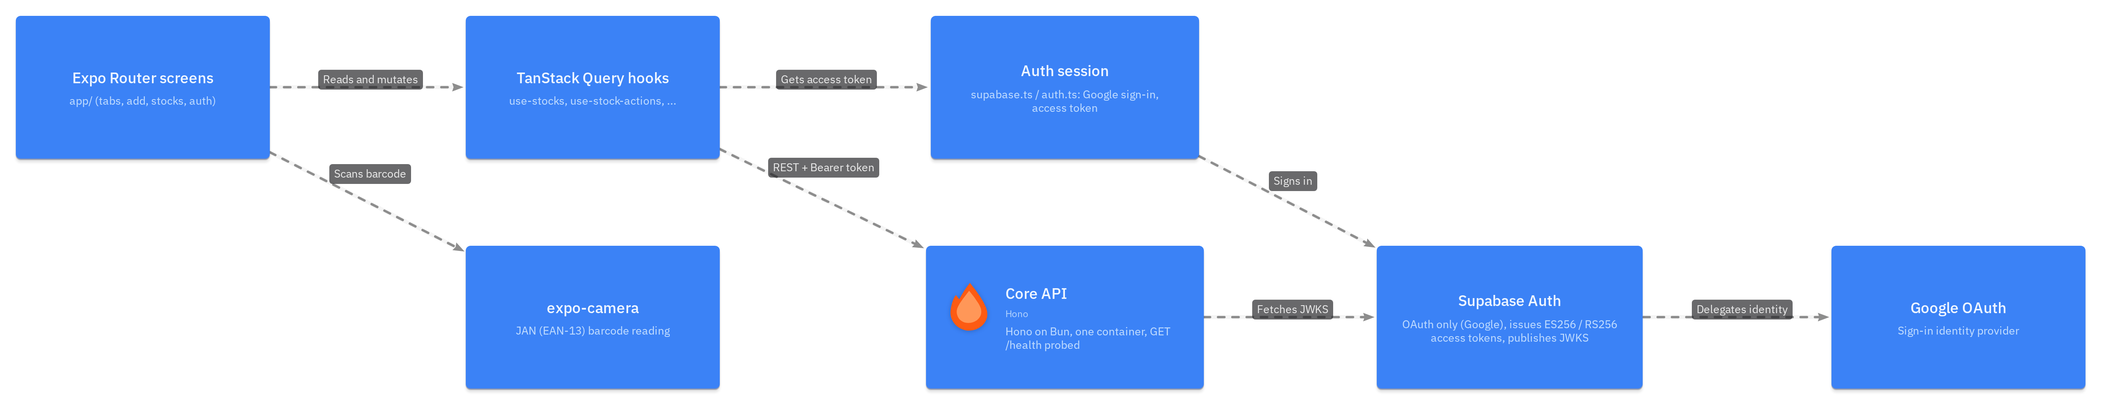
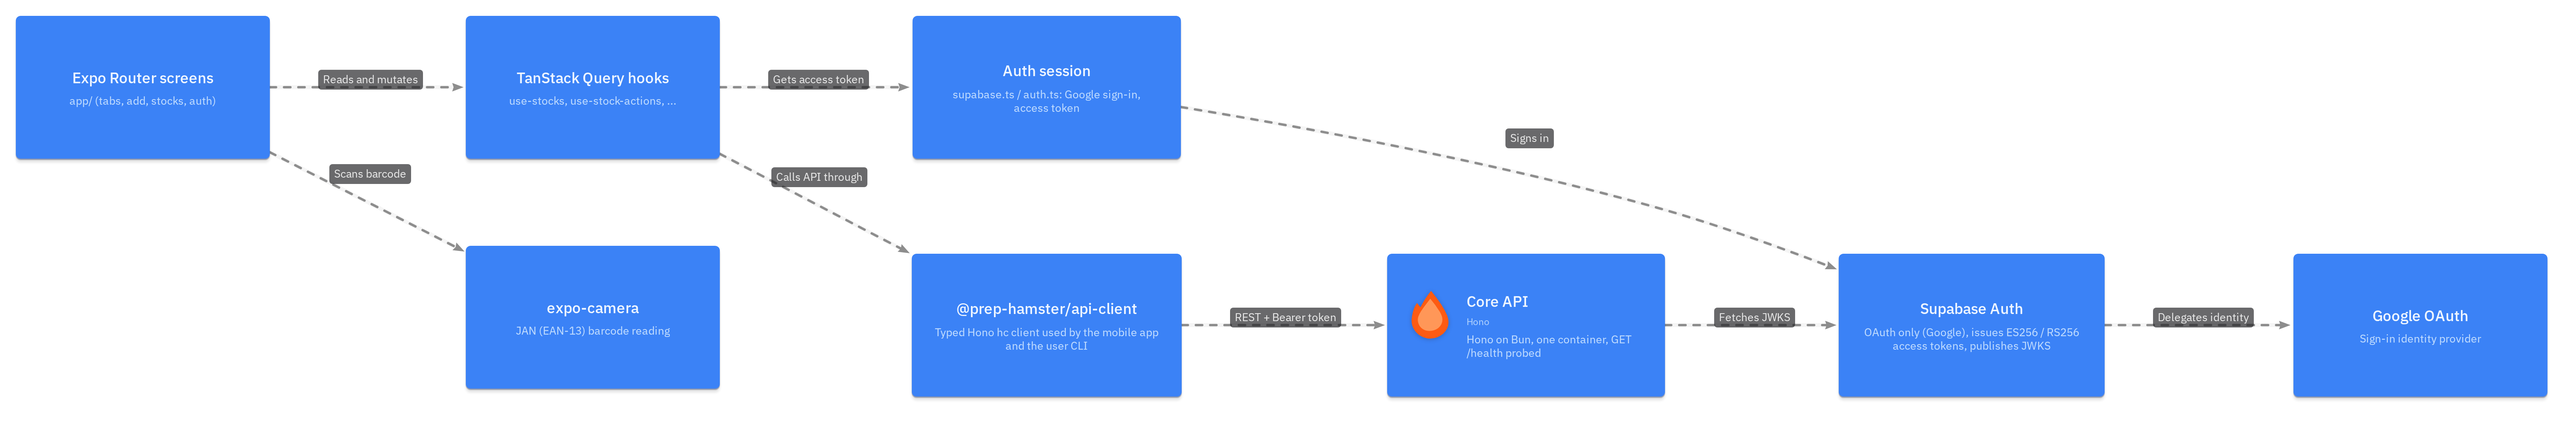
docs: route architecture edges through shared packages
sid: W6JJLO
Claude-Session: https://claude.ai/code/session_019Ug7n3fXBYdFPzAGBKxzqj

diff --git a/docs/architecture/README.md b/docs/architecture/README.md
@@ -1,29 +1,30 @@
 # Architecture
 
-The model is written once in LikeC4 (`spec.c4`, `model.c4`, `views.c4`) and every diagram below is a view projected from it. Change the model, then regenerate the PNGs.
+The model is written once in LikeC4 (`spec.c4`, `model.c4`, `views.c4`) and every diagram below is a view projected from it. Change the model, then regenerate the PNGs and commit them in the same change; nothing checks that they match.
 
 ## System landscape
 
 ![System landscape](landscape.png)
 
-- Actors, devices (Android device, user machine, operator machine), the Coolify host and the managed services (Supabase in the Tokyo region, Google OAuth, Expo push, FCM)
+- Actors, devices (Android device, user machine, operator machine), the API host and the managed services (Supabase in the Tokyo region, Google OAuth, Expo push, FCM)
 - Hosts are deployment nodes, so they are drawn as boxes around the processes that run on them; there is no system boundary box
-- Dashed boxes are planned and not implemented yet (administrator web)
+- Dashed boxes are planned or scaffold only: administrator web and the administrator CLI (it has no API calls yet)
 - The Yahoo! Shopping API call is shown in the Core API view, where the `jan-api` package makes it
 
 ## Clients and sign-in
 
 ![Clients and sign-in](clients.png)
 
-- The mobile app signs in with Supabase Auth (Google) and calls the API with the access token; the user CLI and the administrator CLI call the same API
-- Mobile and both CLIs share the `@prep-hamster/api-client` package
+- The mobile app signs in with Supabase Auth (Google); the mobile app and the user CLI call the API through the `@prep-hamster/api-client` package
+- Administrator web is planned and would call the same API
 
 ## Core API internals
 
 ![Core API internals](api.png)
 
-- Auth middleware verifies the Supabase access token with JWKS, then routes validate with Zod and query Postgres through Drizzle
-- Shared packages (`schema`, `db`, `jan-api`); `sync` is planned and not drawn
+- Auth middleware verifies the Supabase access token with JWKS and creates the `users` row on the first request; routes validate with Zod
+- All Postgres access goes through `@prep-hamster/db` (Drizzle); `jan-api` calls the Yahoo! Shopping API
+- `sync` is planned and not drawn
 
 ## Mobile app
 
@@ -35,20 +36,27 @@ The model is written once in LikeC4 (`spec.c4`, `model.c4`, `views.c4`) and ever
 
 ![Expiry notification](notification.png)
 
-- A one-shot job reads expiring stock from Postgres and sends push messages through Expo push and FCM to the device
+- A one-shot job reads expiring stock and push tokens through `@prep-hamster/db`, sends push messages through Expo push and FCM, and deletes tokens whose ticket says `DeviceNotRegistered`
 - The scheduling host is not defined in the repo yet (see #134), so the job is not placed on any host in the model
+
+## Scope
+
+- The model covers the deployed runtime, not the local development stack (`compose.yaml` and `bunx supabase start`)
+- The API host is not named: the repo names Cloud Run as the intended target and does not state the current production host
+- Only Android and FCM are modeled; iOS (APNs) is out of the first release
 
 ## Regenerate
 
-Run from the repository root. LikeC4 is pinned and not a dependency of the workspace.
+Run from the repository root. LikeC4 is pinned and not a dependency of the workspace. It needs ImageMagick (`magick`, ImageMagick 7) and the Chromium build of the Playwright version LikeC4 bundles (1.64.0 for LikeC4 1.60.0).
 
 ```bash
+bunx playwright@1.64.0 install chromium
 bunx likec4@1.60.0 validate docs/architecture
 PLAYWRIGHT_CHROMIUM_USE_HEADLESS_NEW=1 bunx likec4@1.60.0 export png --flat -o docs/architecture docs/architecture
 rm -f docs/architecture/index.png
 for f in docs/architecture/*.png; do magick "$f" -background white -alpha remove -alpha off "$f"; done
 ```
 
-- LikeC4 has no background option for PNG export (it writes a transparent background), so the last step flattens the PNGs onto white with ImageMagick; without it they turn black in dark viewers
-- PNG export needs Chromium: `bunx playwright install chromium` (on an OS Playwright does not support, set `PLAYWRIGHT_HOST_PLATFORM_OVERRIDE=ubuntu24.04-x64`)
+- On an OS Playwright does not support, set `PLAYWRIGHT_HOST_PLATFORM_OVERRIDE=ubuntu24.04-x64` for the install
+- LikeC4 has no background option for PNG export (it writes a transparent background), so the last step flattens the PNGs onto white; without it they turn black in dark viewers
 - Open an interactive version with `bunx likec4@1.60.0 start docs/architecture`
